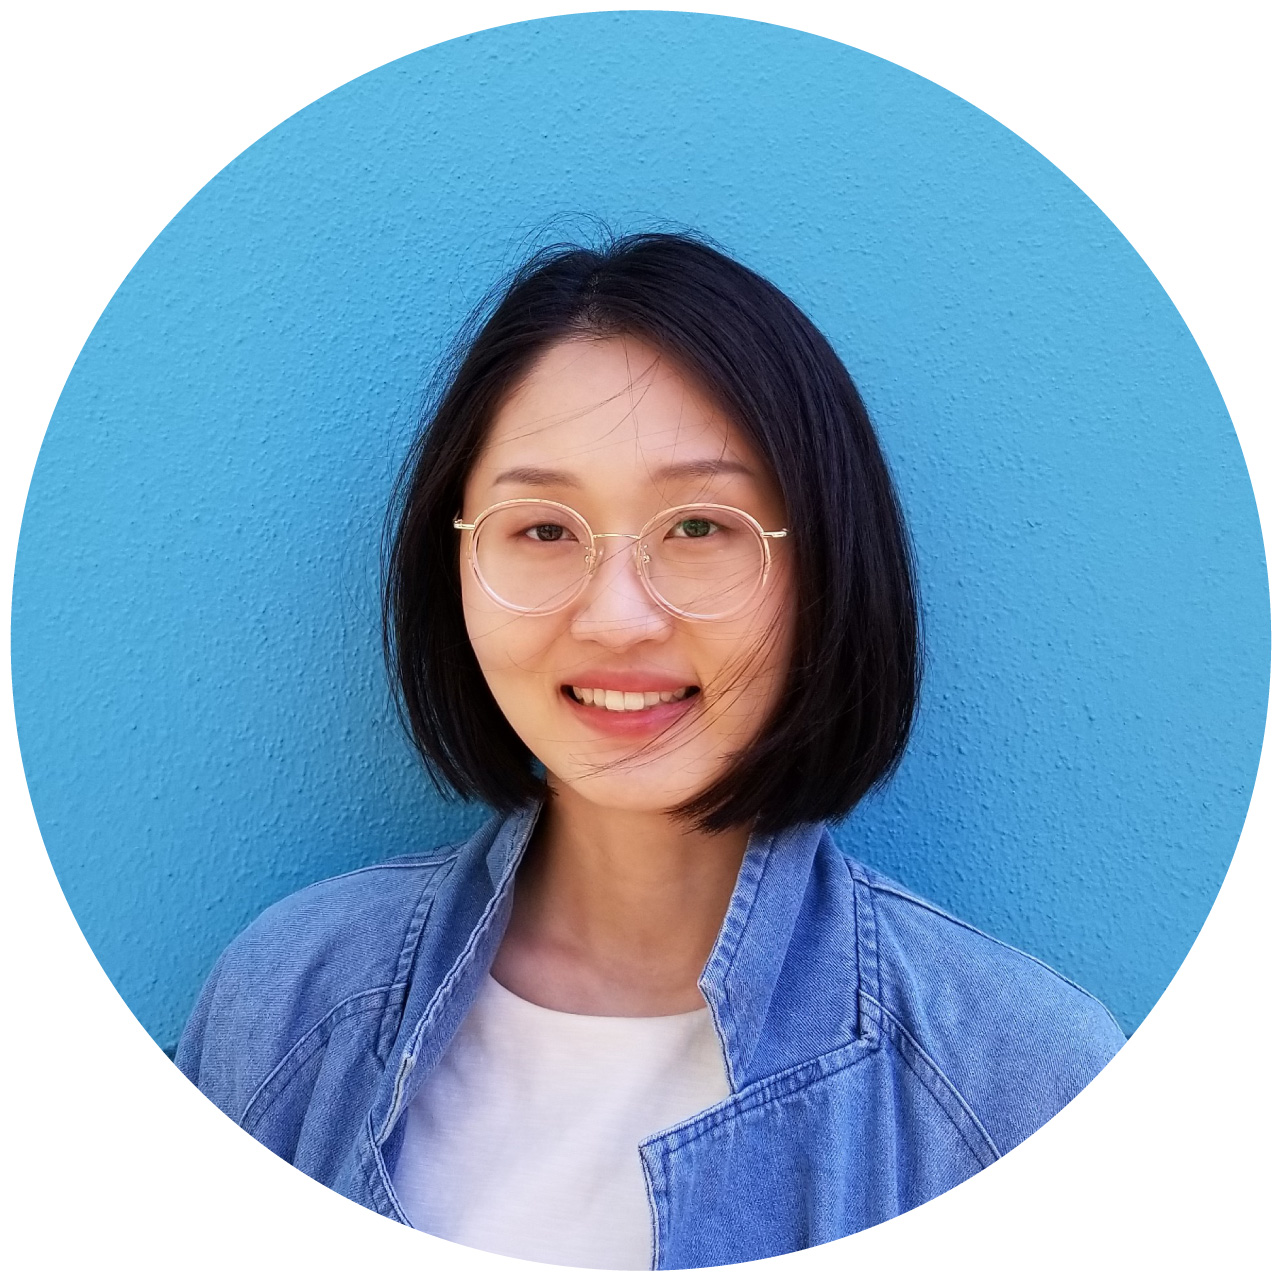
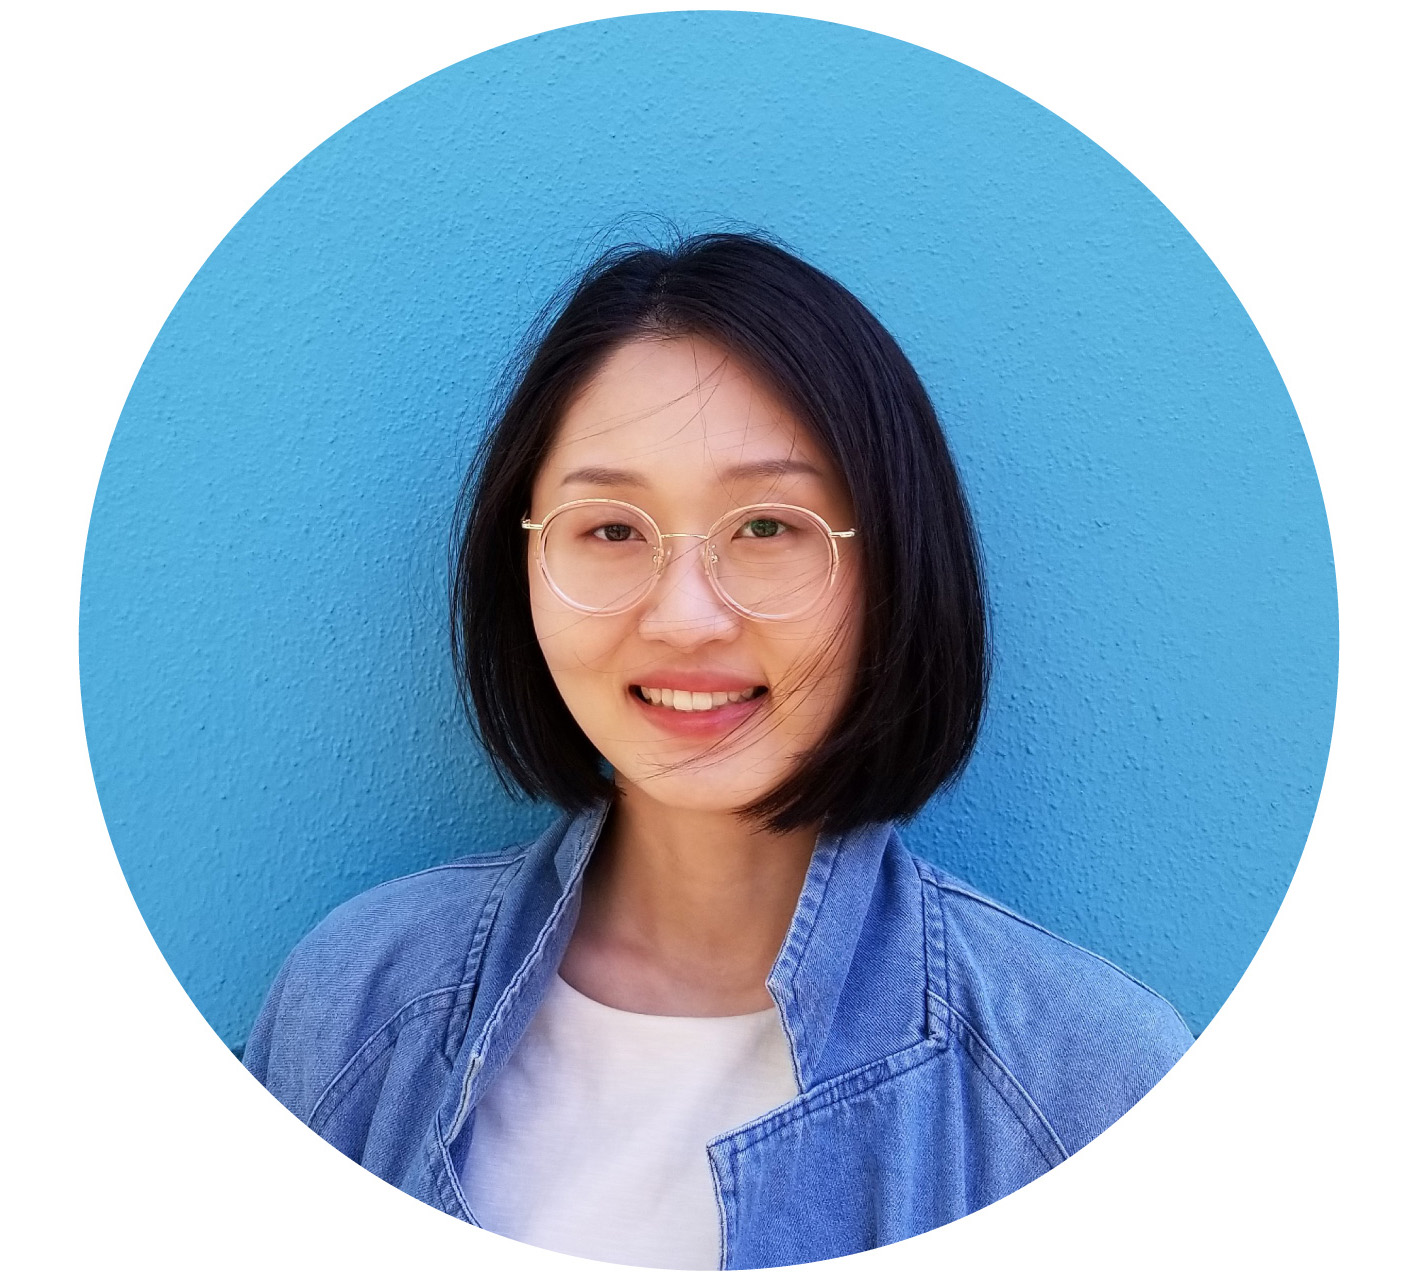
Fonts Updates

diff --git a/about.html b/about.html
@@ -21,7 +21,7 @@
     <!-- Embed Social Media Icons -->
     <link rel="stylesheet" href="https://cdnjs.cloudflare.com/ajax/libs/font-awesome/4.7.0/css/font-awesome.min.css">
     <!-- google fonts -->
-    <link href="https://fonts.googleapis.com/css?family=Montserrat:300,400,600,700|Open+Sans:300,400,700|Merriweather:300i" rel="stylesheet">
+    <link href="https://fonts.googleapis.com/css?family=Raleway:300,400,400i,500,700|Montserrat:300,400,600,700" rel="stylesheet">
   </head>
 
   <body>
@@ -50,13 +50,13 @@
       </div>
 
       <div id="content">
-        <div class="col-xs-12 col-sm-12 col-md-4 col-lg-4">
+        <div class="col-xs-12 col-sm-12 col-md-5 col-lg-5">
           <img src="images/xiaochen.jpg" class="img-responsive" >
         </div>
 
-        <div class="paragraphs col-xs-12 col-sm-12 col-md-8 col-lg-8">
+        <div class="paragraphs col-xs-12 col-sm-12 col-md-7 col-lg-7">
           <div class="col-xs-12 col-sm-12 col-md-12 col-lg-12">
-            <h3 class="text-center">HELLO, I AM XIAOCHEN</h3>
+            <h3>GREETINGS!</h3>
             <p>I am a UX and product designer now studying Media Arts and Science at Indiana University,
               exploring emerging-techs while reflecting on the fundamental of human nature.
               I graduated from University of Washington with a BS degree in
@@ -64,11 +64,11 @@
               I previously worked with <a href="https://www.rei.com/" class="refs" target="_blank">REI</a>, <a href="http://depts.washington.edu/ecc/" class="refs" target="_blank">Samuel Kelly Ethnic Cultural Center</a>,
               and <a href="https://www.visitseattle.org/partners/one-media-venture/" class="refs" target="_blank">One Media Venture</a>. With my background in HCI and media arts, I take care of people, stories, and pixels when crafting products.</p>
             <p></p>
-            <p><b>I am actively seeking an internship for summer 2019.</b> Interested in getting in touch? Drop me a line at xiaochenyu@yahoo.com.</p>
+            <p>Interested in getting in touch? Drop me a line at xiaochenyu@yahoo.com.</p>
           </div>
           <div class="col-xs-12 col-sm-12 col-md-12 col-lg-12">
             <p></p>
-            <a href="Xiaochen Yu_Resume_Design.pdf" class="resume" target="_blank"><h4 class="text-center">[ DOWNLOAD RESUME ]</h4></a>
+            <a href="Xiaochen Yu_Resume_Design.pdf" class="resume" target="_blank"><h4>[ DOWNLOAD RESUME ]</h4></a>
           </div>
         </div>
 

diff --git a/css/pages.css b/css/pages.css
@@ -1,9 +1,9 @@
 html,body {
   overflow-x: hidden;
-  font-family: 'Open Sans', sans-serif;
-  font-size: 14pt;
-  font-weight: 300;
-  line-height: 1.6;
+  font-family: 'Raleway', sans-serif;
+  font-size: 13pt;
+  font-weight: 400;
+  line-height: 1.8;
   color: #181818;
   -webkit-font-smoothing: antialiased;
   -moz-font-smoothing: antialiased;
@@ -52,14 +52,13 @@ a:hover {
  }
 
  h2 {
-   font-weight: 300;
    font-size: 19pt;
    line-height: 1.6;
  }
 
  .questions {
-   font-family: 'Merriweather', Impact, Charcoal, sans-serif;
-   font-weight: 300i;
+   font-family: 'Raleway', sans-serif;
+   font-weight: 400i;
  }
 
  .centered-h3, .centered-h4{
@@ -345,6 +344,7 @@ a:visited, a:focus {
   }
 
   h2 {
+    font-weight: 300;
     font-size: 15pt;
     line-height: 1.5;
   }
@@ -385,7 +385,7 @@ a:visited, a:focus {
 
 /*REI FIT page*/
 .p-i {
-  font-family: 'Merriweather', Impact, Charcoal, sans-serif;
+  font-family: 'Raleway', sans-serif;
   text-align: center;
   font-weight: 400i;
 }
@@ -426,7 +426,7 @@ a:visited, a:focus {
 
 /*Veggiezens*/
 .quote {
-  font-family: 'Merriweather', Impact, Charcoal, sans-serif;
+  font-family: 'Raleway', sans-serif;
   font-style: italic;
   font-size: 13pt;
 }

diff --git a/wom.html b/wom.html
@@ -21,7 +21,7 @@
     <!-- Embed Social Media Icons -->
     <link rel="stylesheet" href="https://cdnjs.cloudflare.com/ajax/libs/font-awesome/4.7.0/css/font-awesome.min.css">
     <!-- google fonts -->
-    <link href="https://fonts.googleapis.com/css?family=Montserrat:300,400,600,700|Open+Sans:300,400|Merriweather:300i,400i" rel="stylesheet">
+    <link href="https://fonts.googleapis.com/css?family=Raleway:300,400,400i,500,700|Montserrat:300,400,600,700" rel="stylesheet">
   </head>
 
   <body>
@@ -43,7 +43,7 @@
             W.O.M WeChat<br/>Mini-Program
           </h1>
           <h2>
-            Neighborhood Online Communication Platform • Mobile • UX
+            Neighborhood Online Communication Platform • Mobile • UX Design
           </h2>
         </div>
 

diff --git a/css/about.css b/css/about.css
@@ -1,9 +1,9 @@
 html, body {
   overflow-x: hidden;
-  font-family: 'Open Sans', sans-serif;
-  font-size: 14pt;
+  font-family: 'Raleway', sans-serif;
+  font-size: 13pt;
   font-weight: 400;
-  line-height: 1.6;
+  line-height: 1.8;
   color: #181818;
   -webkit-font-smoothing: antialiased;
   -moz-font-smoothing: antialiased;
@@ -136,10 +136,10 @@ a:visited, a:focus {
 
 /*font size*/
 h3 {
-  font-family: "Montserrat", sans-serif;
-  font-weight: 700;
+  font-family: 'Montserrat', sans-serif;
+  font-weight: 600;
   font-size: 25pt;
-  line-height: 1.6;
+  line-height: 1.8;
 }
 
 .refs{
@@ -157,7 +157,7 @@ h3 {
   font-family: "Montserrat", sans-serif;
   font-weight: 700;
   font-size: 16pt;
-  line-height: 1.6;
+  line-height: 1.8;
   color: #181818;
 }
 

diff --git a/seattle_safe_bike.html b/seattle_safe_bike.html
@@ -21,7 +21,7 @@
     <!-- Embed Social Media Icons -->
     <link rel="stylesheet" href="https://cdnjs.cloudflare.com/ajax/libs/font-awesome/4.7.0/css/font-awesome.min.css">
     <!-- google fonts -->
-    <link href="https://fonts.googleapis.com/css?family=Montserrat:300,400,600,700|Open+Sans:300,400|Merriweather:300i" rel="stylesheet">
+    <link href="https://fonts.googleapis.com/css?family=Raleway:300,400,400i,500,700|Montserrat:300,400,600,700" rel="stylesheet">
   </head>
 
   <body>
@@ -43,7 +43,7 @@
             Seattle Safe Bike
           </h1>
           <h2>
-            Interactive Data Visualization Dashboard • UX
+            Interactive Data Visualization Dashboard • UX Design
           </h2>
         </div>
 

diff --git a/spotify_redesign.html b/spotify_redesign.html
@@ -21,7 +21,7 @@
     <!-- Embed Social Media Icons -->
     <link rel="stylesheet" href="https://cdnjs.cloudflare.com/ajax/libs/font-awesome/4.7.0/css/font-awesome.min.css">
     <!-- google fonts -->
-    <link href="https://fonts.googleapis.com/css?family=Montserrat:300,400,600,700|Open+Sans:300,400|Merriweather:300i" rel="stylesheet">
+    <link href="https://fonts.googleapis.com/css?family=Raleway:300,400,400i,500,700|Montserrat:300,400,600,700" rel="stylesheet">
   </head>
 
   <body>
@@ -43,7 +43,7 @@
             Spotify iOS Case Study & Redesign
           </h1>
           <h2>
-            Usability Testing • Mobile • UX/UI
+            Usability Testing • Mobile • UX/UI Design
           </h2>
         </div>
 

diff --git a/rei_fit.html b/rei_fit.html
@@ -21,7 +21,7 @@
     <!-- Embed Social Media Icons -->
     <link rel="stylesheet" href="https://cdnjs.cloudflare.com/ajax/libs/font-awesome/4.7.0/css/font-awesome.min.css">
     <!-- google fonts -->
-    <link href="https://fonts.googleapis.com/css?family=Montserrat:300,400,600,700|Open+Sans:300,400|Merriweather:300i,400i" rel="stylesheet">
+    <link href="https://fonts.googleapis.com/css?family=Raleway:300,400,400i,500,700|Montserrat:300,400,600,700" rel="stylesheet">
   </head>
 
   <body>

diff --git a/veggiezens.html b/veggiezens.html
@@ -21,7 +21,7 @@
     <!-- Embed Social Media Icons -->
     <link rel="stylesheet" href="https://cdnjs.cloudflare.com/ajax/libs/font-awesome/4.7.0/css/font-awesome.min.css">
     <!-- google fonts -->
-    <link href="https://fonts.googleapis.com/css?family=Montserrat:300,400,600,700|Open+Sans:300,400|Merriweather:300i" rel="stylesheet">
+    <link href="https://fonts.googleapis.com/css?family=Raleway:300,400,400i,500,700|Montserrat:300,400,600,700" rel="stylesheet">
   </head>
 
   <body>

diff --git a/visuals.html b/visuals.html
@@ -21,7 +21,7 @@
     <!-- Embed Social Media Icons -->
     <link rel="stylesheet" href="https://cdnjs.cloudflare.com/ajax/libs/font-awesome/4.7.0/css/font-awesome.min.css">
     <!-- google fonts -->
-    <link href="https://fonts.googleapis.com/css?family=Montserrat:300,400,600,700|Open+Sans:300,400|Merriweather:300i" rel="stylesheet">
+    <link href="https://fonts.googleapis.com/css?family=Raleway:300,400,400i,500,700|Montserrat:300,400,600,700" rel="stylesheet">
   </head>
 
   <body>

diff --git a/index.html b/index.html
@@ -21,7 +21,7 @@
     <!-- Embed Social Media Icons -->
     <link rel="stylesheet" href="https://cdnjs.cloudflare.com/ajax/libs/font-awesome/4.7.0/css/font-awesome.min.css">
     <!-- google fonts -->
-    <link href="https://fonts.googleapis.com/css?family=Montserrat:300,400,600,700|Open+Sans:300,400,800" rel="stylesheet">
+    <link href="https://fonts.googleapis.com/css?family=Raleway:300,400,400i,500,700|Montserrat:300,400,600,700" rel="stylesheet">
   </head>
 
   <body>
